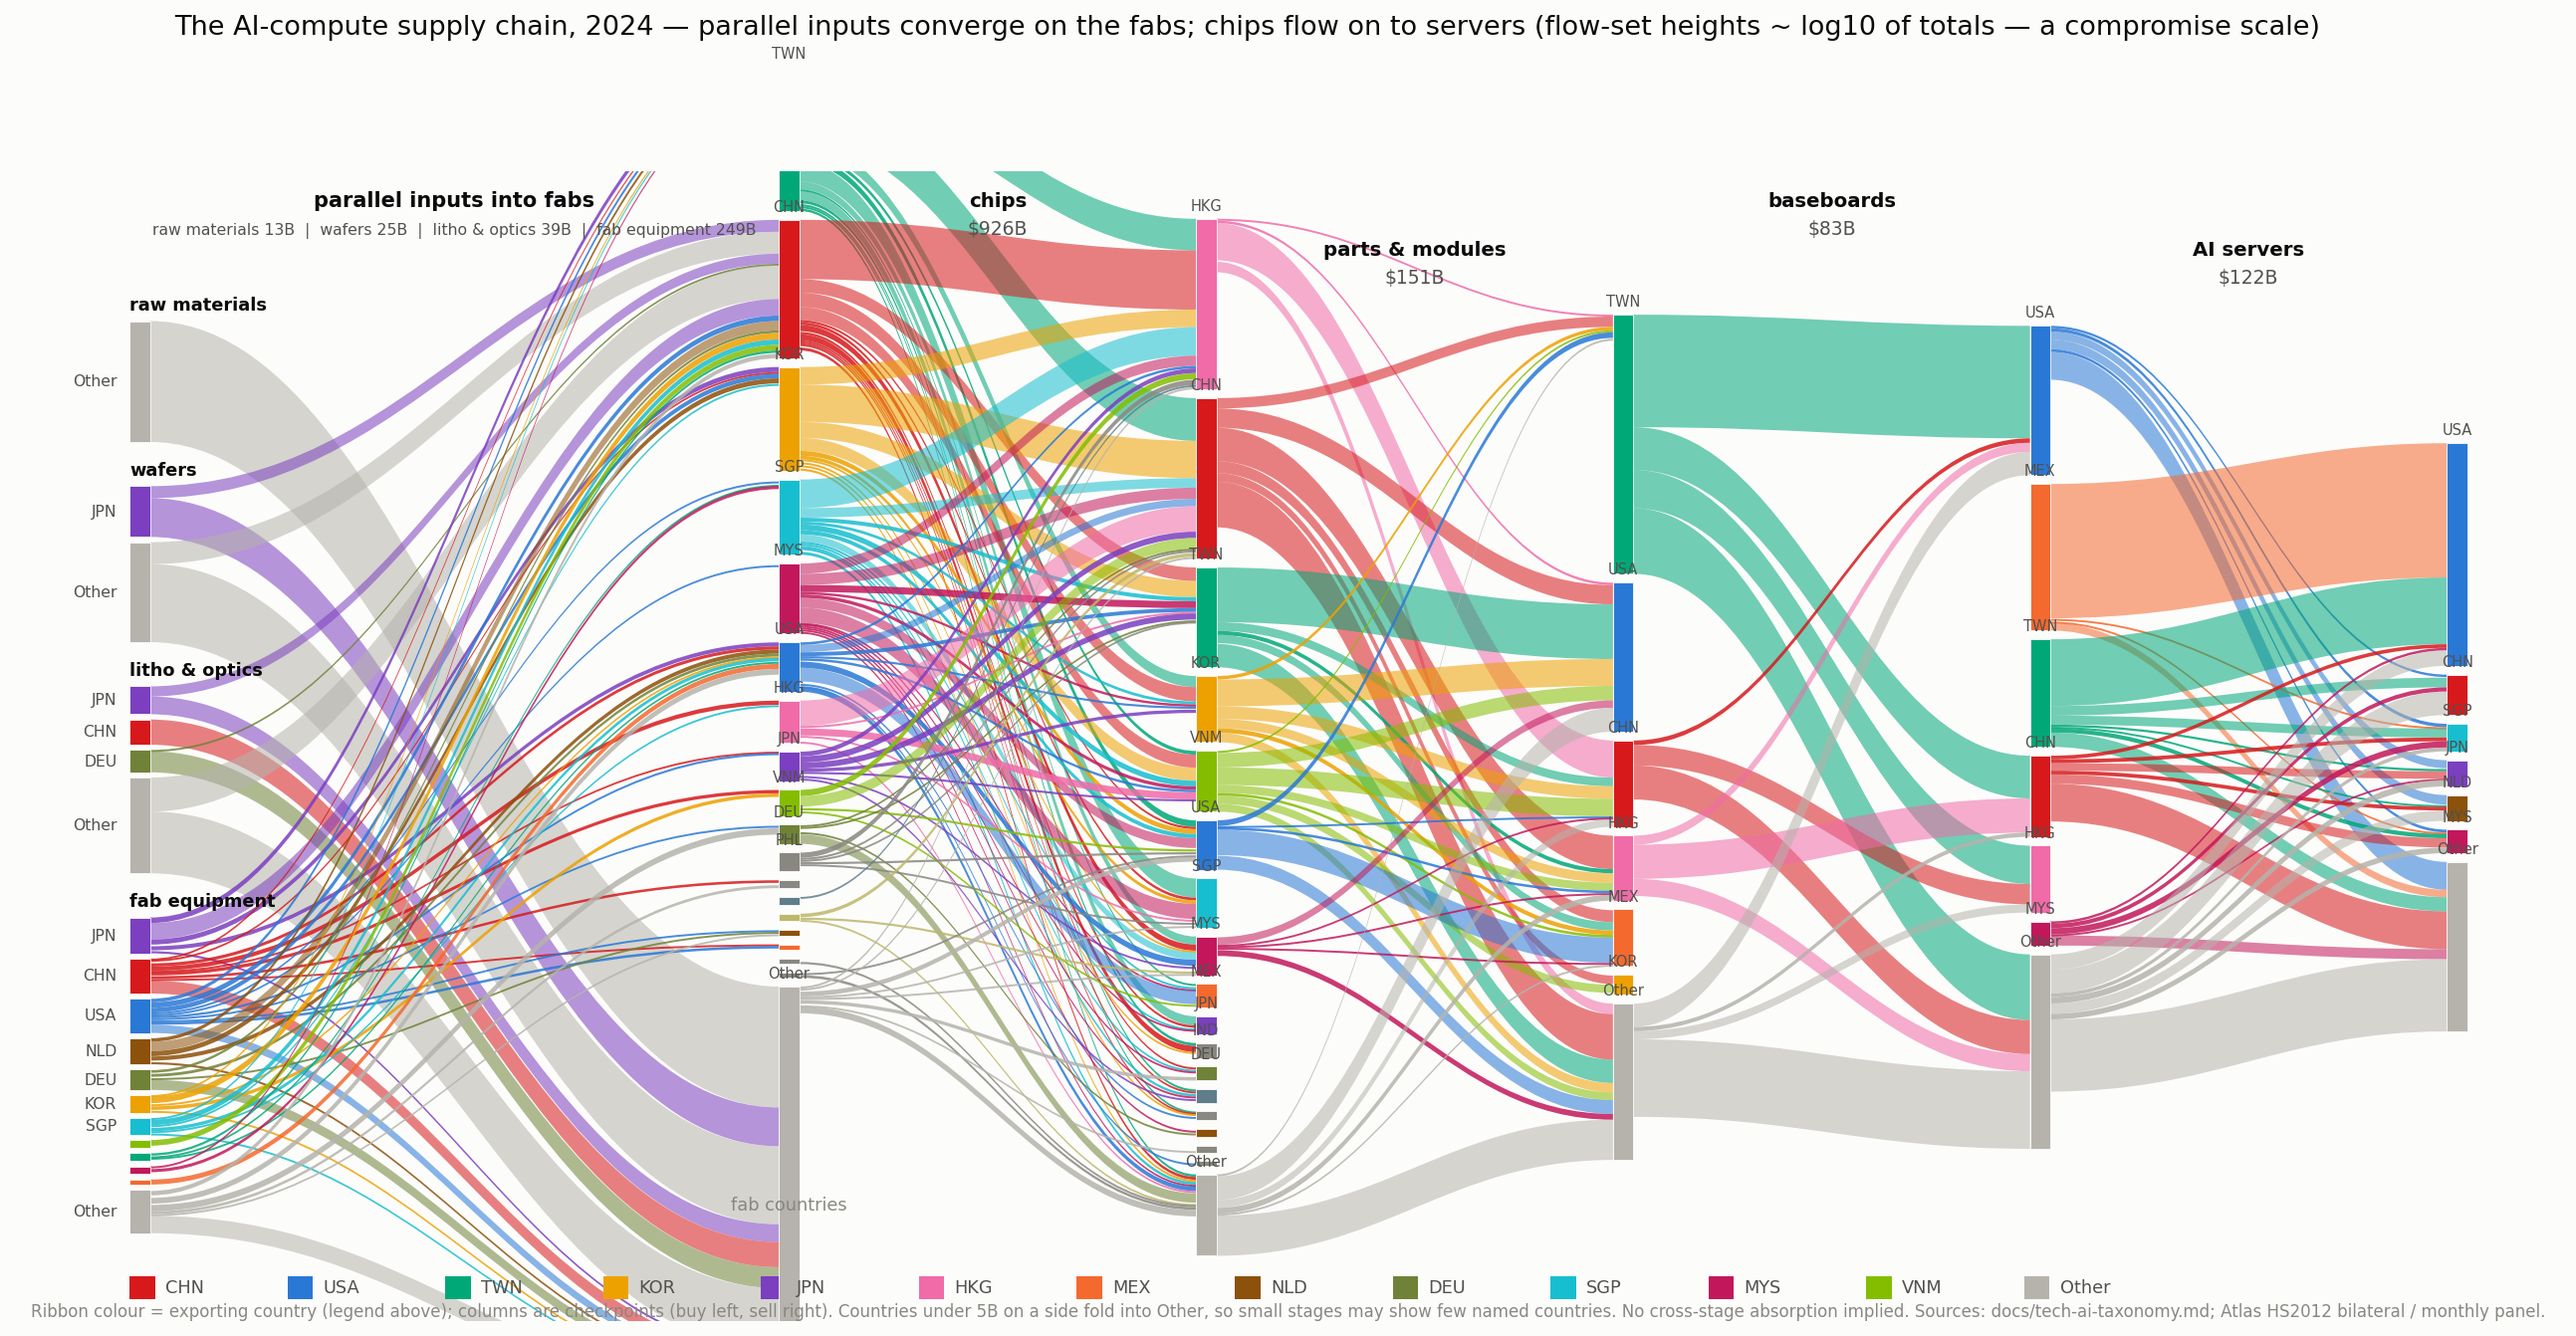
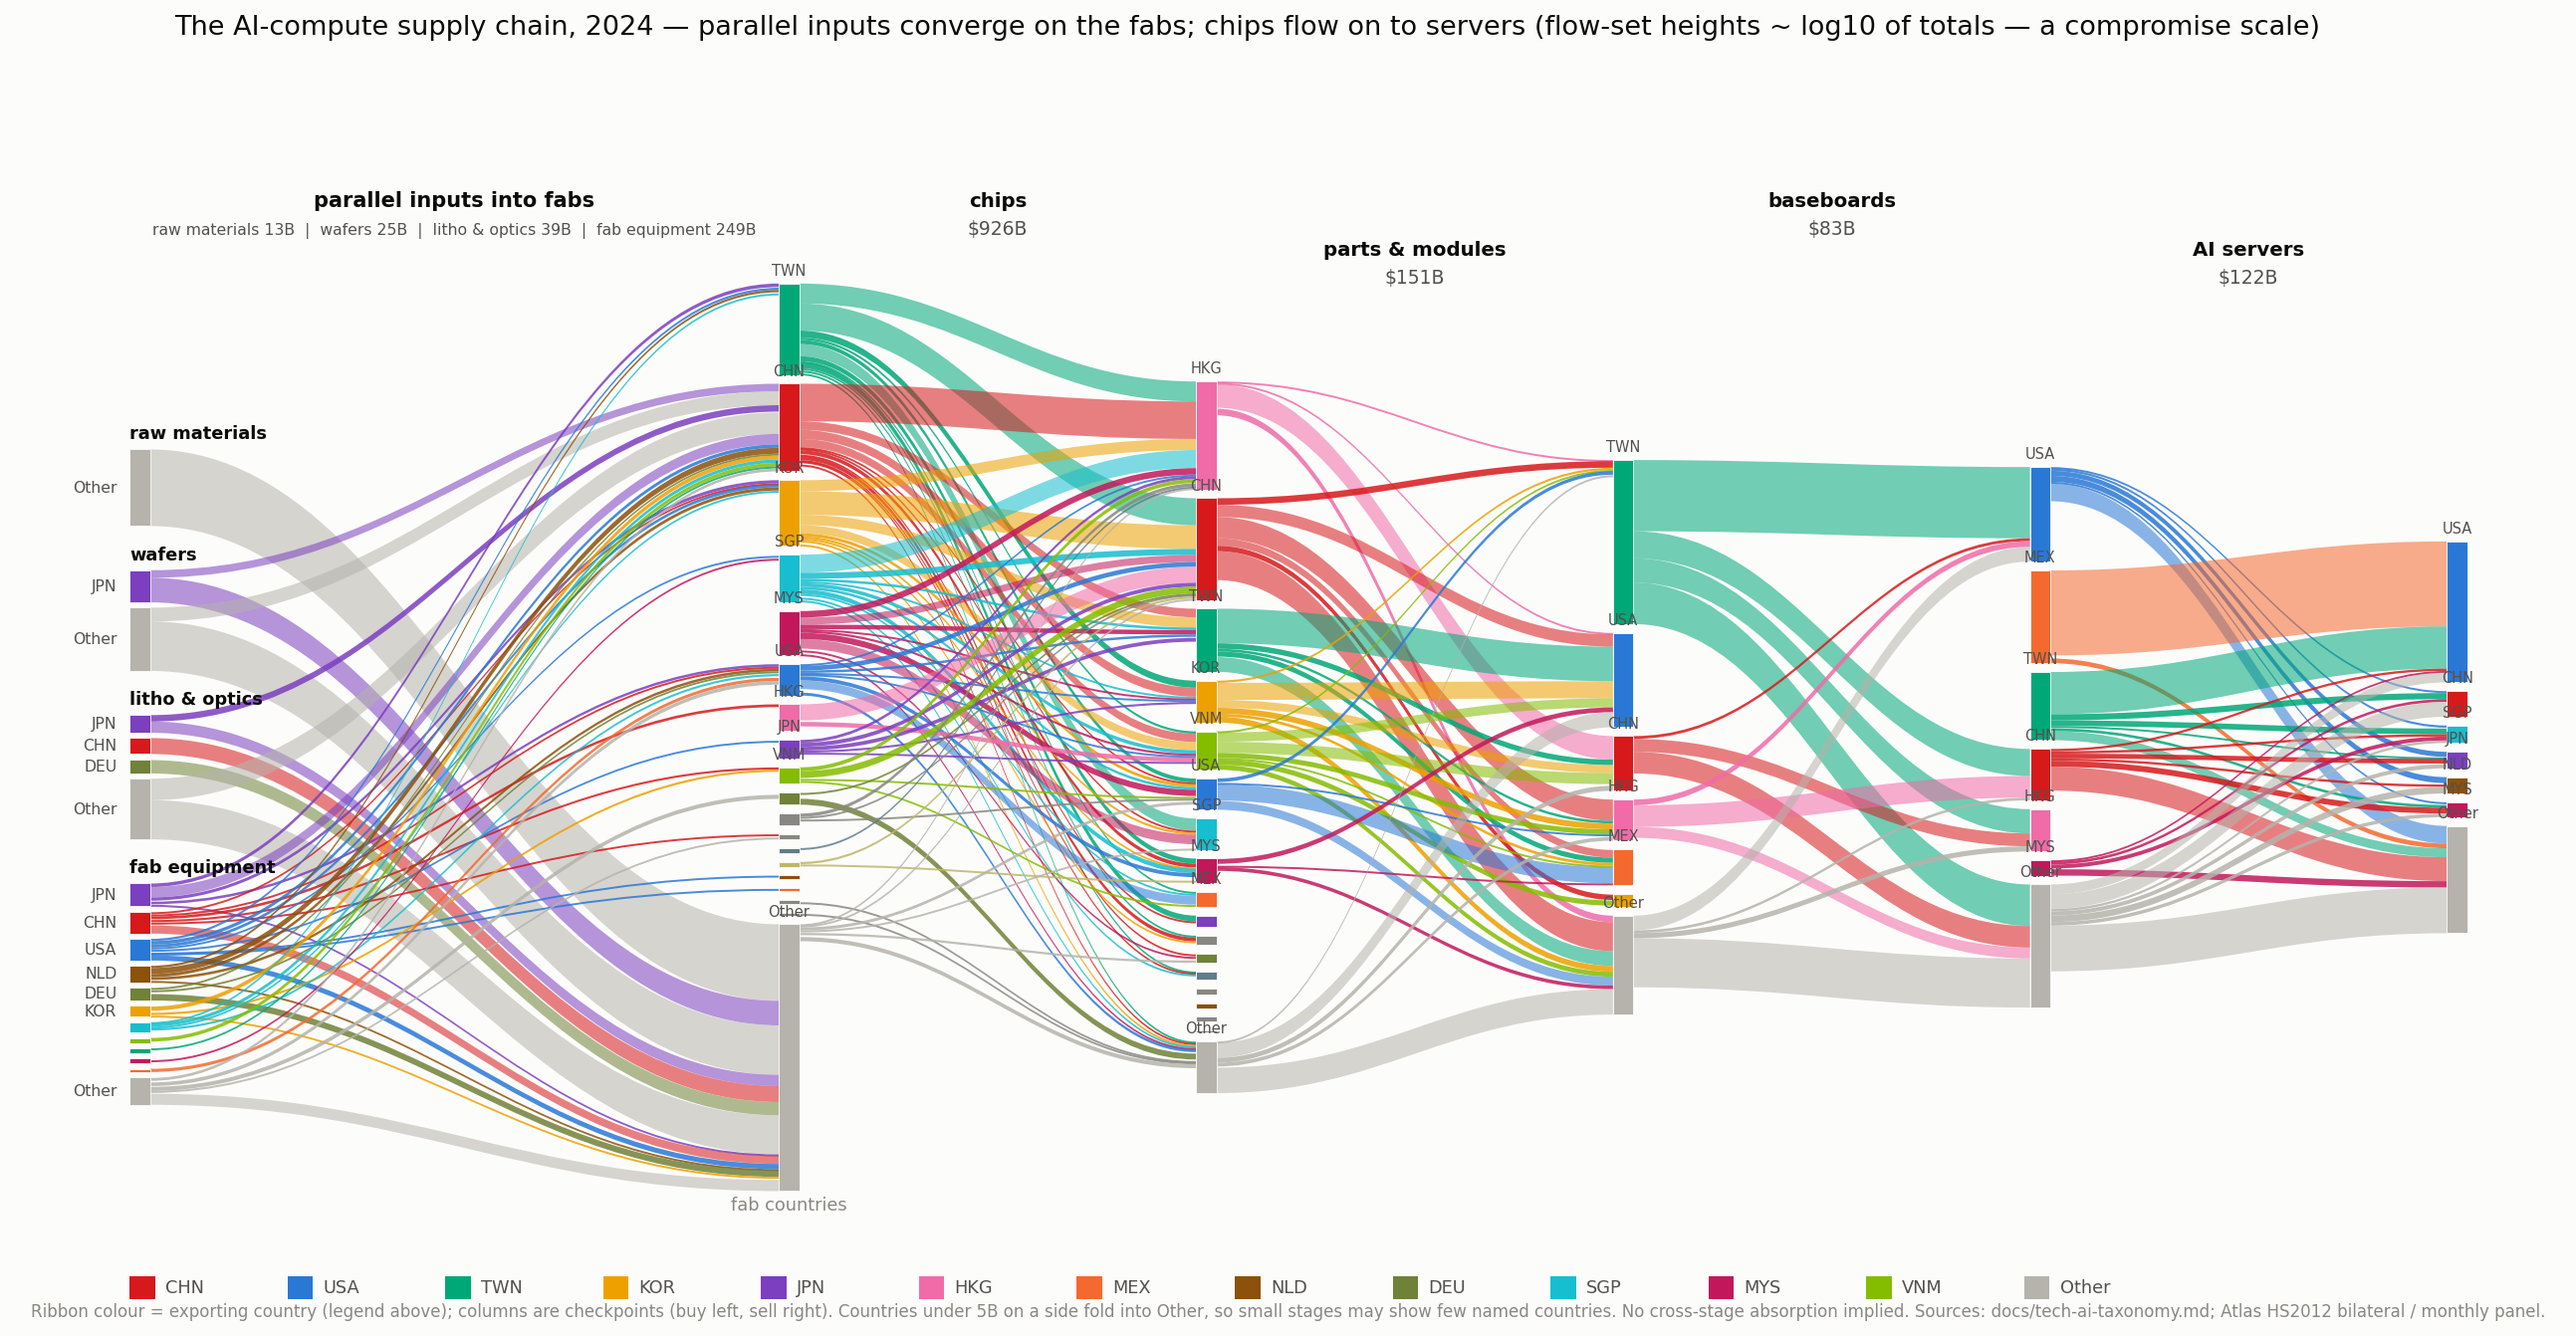
Overview: clip-proof layout (shrink-to-fit on tallest column)
Column spans (node heights via max(in,out) + inter-node padding) could
exceed the canvas in log/normalized modes -- chips has the most nodes.
Layout is now measured after a first pass and all scales shrink
uniformly if the tallest column would clip.

diff --git a/scripts/export_supply_chain_sankey.py b/scripts/export_supply_chain_sankey.py
@@ -425,56 +425,67 @@ def draw_chain_overview(input_stages, seq_stages, MODE="dollar"):
             names.append("Other")
         return names
 
-    # ---- input block: 4 groups stacked on the left
-    y_cursor = 0.5 + (sum(t * s for t, s in zip(in_totals, in_scales))
-                      + 0.05 * (len(inputs) - 1)) / 2
-    in_group_pos = []                      # per group: (label, {exp: (ytop, h)}, scale)
-    for (lab, f), sc in zip(inputs, in_scales):
-        names = order_of(f)
-        pos, y = {}, y_cursor
-        for n_ in names:
-            h = sum(v for (o, t), v in f.items() if o == n_) * sc
-            pos[n_] = (y, h)
-            y -= h + pad * 0.6
-        in_group_pos.append((lab, pos, sc))
-        y_cursor = y - 0.05 + pad * 0.6
+    def build_layout(in_scales, seq_scales):
+        """Node layout for all columns; returns positions + tallest column span."""
+        y_cursor = 0.5 + (sum(t * s for t, s in zip(in_totals, in_scales))
+                          + 0.05 * (len(inputs) - 1)) / 2
+        in_top = y_cursor
+        in_group_pos = []                  # per group: (label, {exp: (ytop, h)}, scale)
+        for (lab, f), sc in zip(inputs, in_scales):
+            names = order_of(f)
+            pos, y = {}, y_cursor
+            for n_ in names:
+                h = sum(v for (o, t), v in f.items() if o == n_) * sc
+                pos[n_] = (y, h)
+                y -= h + pad * 0.6
+            in_group_pos.append((lab, pos, sc))
+            y_cursor = y - 0.05 + pad * 0.6
+        spans = [in_top - (y_cursor + 0.05)]
 
-    # ---- fab checkpoint column: in = all four input streams; out = chips
-    fab_in = {}
-    for (lab, f), sc in zip(inputs, in_scales):
-        for (o, t), v in f.items():
-            fab_in[t] = fab_in.get(t, 0.0) + v * sc
-    chips_f = seqs[0][1]
-    fab_out = {}
-    for (o, t), v in chips_f.items():
-        fab_out[o] = fab_out.get(o, 0.0) + v * seq_scales[0]
-    fab_names = [n for n in order_of({(k, k): v for k, v in
-                                      {**fab_in, **fab_out}.items()})]
-    # order fab column by combined size
-    fab_sz = {n: max(fab_in.get(n, 0.0), fab_out.get(n, 0.0)) for n in
-              set(fab_in) | set(fab_out)}
-    fab_names = sorted(fab_sz, key=lambda n: (n == "Other", -fab_sz[n]))
-    fab_pos, y = {}, 0.5 + (sum(fab_sz.values()) + pad * (len(fab_sz) - 1)) / 2
-    for n_ in fab_names:
-        fab_pos[n_] = (y, fab_sz[n_])
-        y -= fab_sz[n_] + pad
+        fab_in = {}
+        for (lab, f), sc in zip(inputs, in_scales):
+            for (o, t), v in f.items():
+                fab_in[t] = fab_in.get(t, 0.0) + v * sc
+        fab_out = {}
+        for (o, t), v in seqs[0][1].items():
+            fab_out[o] = fab_out.get(o, 0.0) + v * seq_scales[0]
+        fab_sz = {n: max(fab_in.get(n, 0.0), fab_out.get(n, 0.0)) for n in
+                  set(fab_in) | set(fab_out)}
+        fab_names = sorted(fab_sz, key=lambda n: (n == "Other", -fab_sz[n]))
+        T = sum(fab_sz.values()) + pad * (len(fab_sz) - 1)
+        spans.append(T)
+        fab_pos, y = {}, 0.5 + T / 2
+        for n_ in fab_names:
+            fab_pos[n_] = (y, fab_sz[n_])
+            y -= fab_sz[n_] + pad
 
-    # ---- downstream checkpoint columns
-    col_pos = [fab_pos]
-    for g in range(1, len(seqs) + 1):
-        out_v, in_v = {}, {}
-        if g < len(seqs):
-            for (o, t), v in seqs[g][1].items():
-                out_v[o] = out_v.get(o, 0.0) + v * seq_scales[g]
-        for (o, t), v in seqs[g - 1][1].items():
-            in_v[t] = in_v.get(t, 0.0) + v * seq_scales[g - 1]
-        sz = {n: max(out_v.get(n, 0.0), in_v.get(n, 0.0)) for n in set(out_v) | set(in_v)}
-        names = sorted(sz, key=lambda n: (n == "Other", -sz[n]))
-        pos, y = {}, 0.5 + (sum(sz.values()) + pad * (len(sz) - 1)) / 2
-        for n_ in names:
-            pos[n_] = (y, sz[n_])
-            y -= sz[n_] + pad
-        col_pos.append(pos)
+        col_pos = [fab_pos]
+        for g in range(1, len(seqs) + 1):
+            out_v, in_v = {}, {}
+            if g < len(seqs):
+                for (o, t), v in seqs[g][1].items():
+                    out_v[o] = out_v.get(o, 0.0) + v * seq_scales[g]
+            for (o, t), v in seqs[g - 1][1].items():
+                in_v[t] = in_v.get(t, 0.0) + v * seq_scales[g - 1]
+            sz = {n: max(out_v.get(n, 0.0), in_v.get(n, 0.0))
+                  for n in set(out_v) | set(in_v)}
+            names = sorted(sz, key=lambda n: (n == "Other", -sz[n]))
+            T = sum(sz.values()) + pad * (len(sz) - 1)
+            spans.append(T)
+            pos, y = {}, 0.5 + T / 2
+            for n_ in names:
+                pos[n_] = (y, sz[n_])
+                y -= sz[n_] + pad
+            col_pos.append(pos)
+        return in_group_pos, col_pos, max(spans)
+
+    in_group_pos, col_pos, span = build_layout(in_scales, seq_scales)
+    if span > 0.96:                        # tallest column would clip: shrink to fit
+        f = 0.96 / span
+        in_scales = [s * f for s in in_scales]
+        seq_scales = [s * f for s in seq_scales]
+        in_group_pos, col_pos, span = build_layout(in_scales, seq_scales)
+    fab_pos = col_pos[0]
 
     fig, ax = plt.subplots(figsize=(22, 10))
     ax.set_xlim(0, 1)
